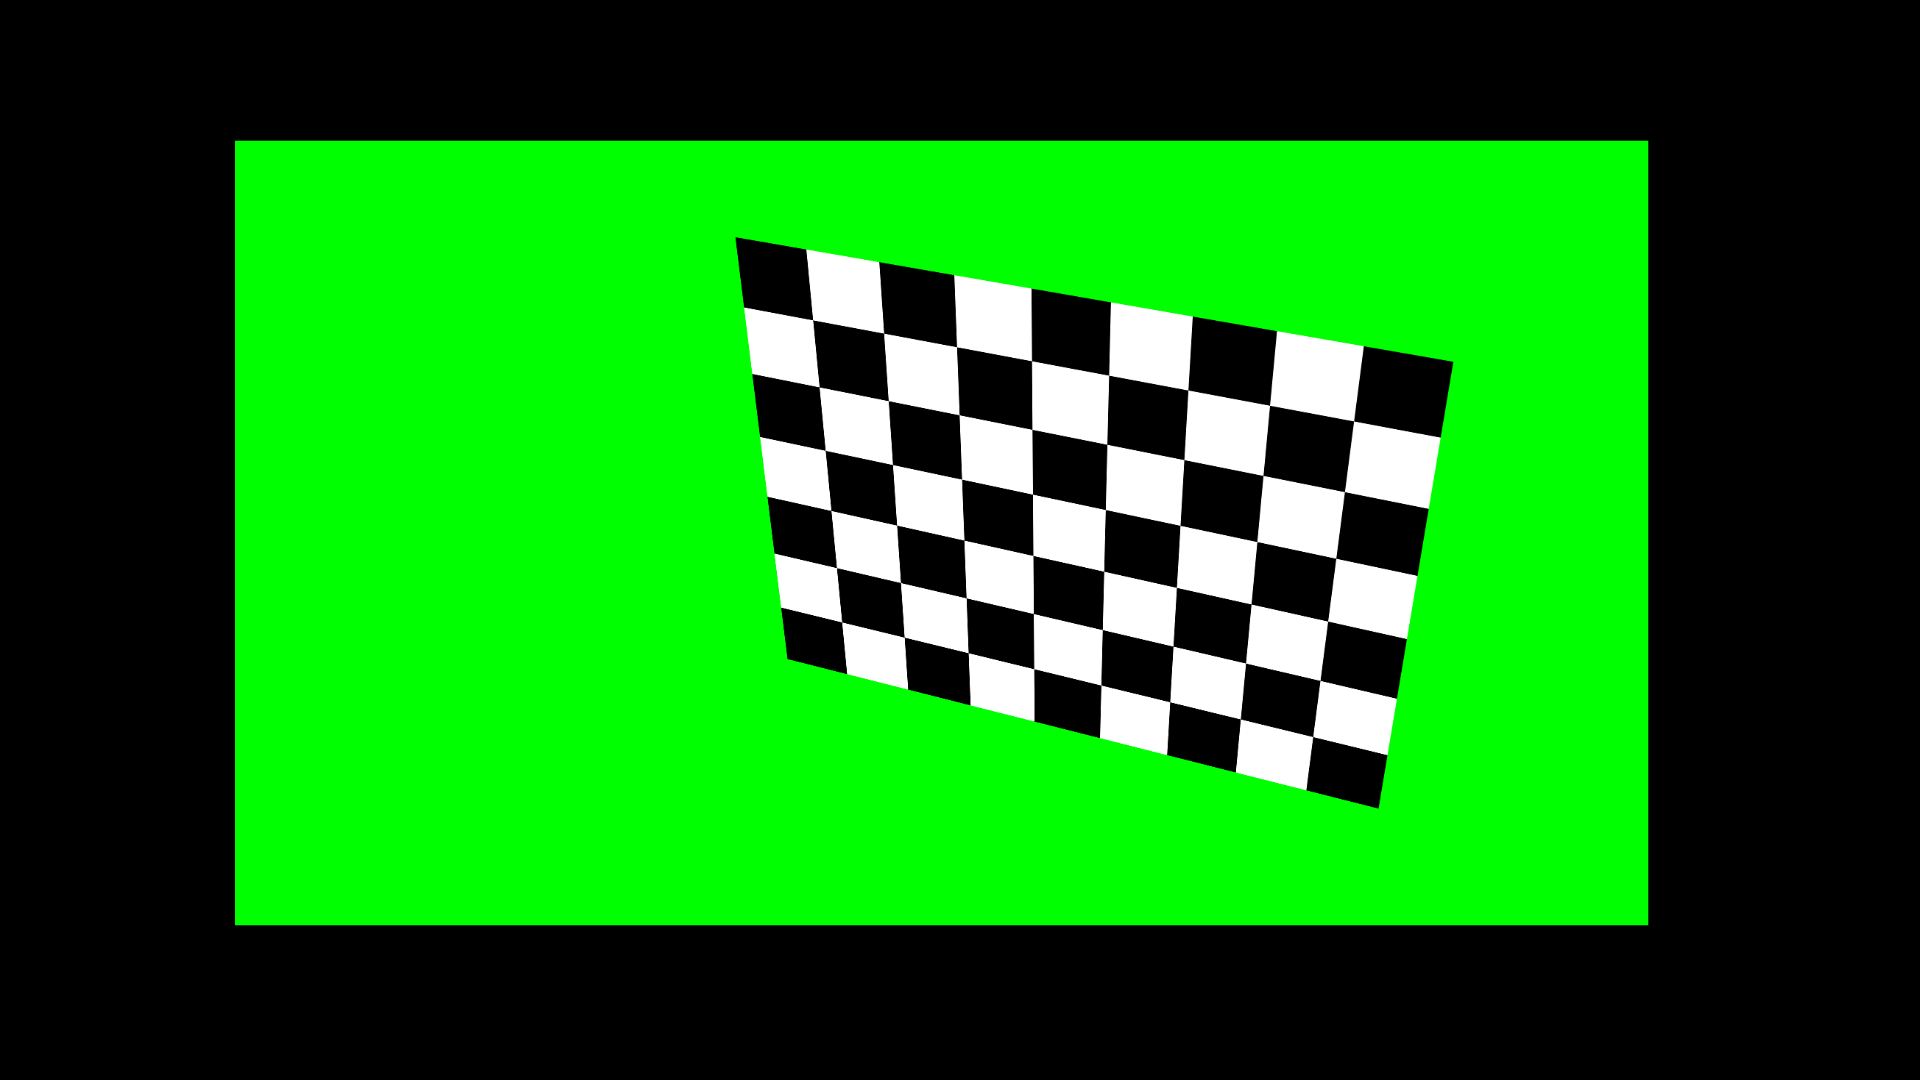
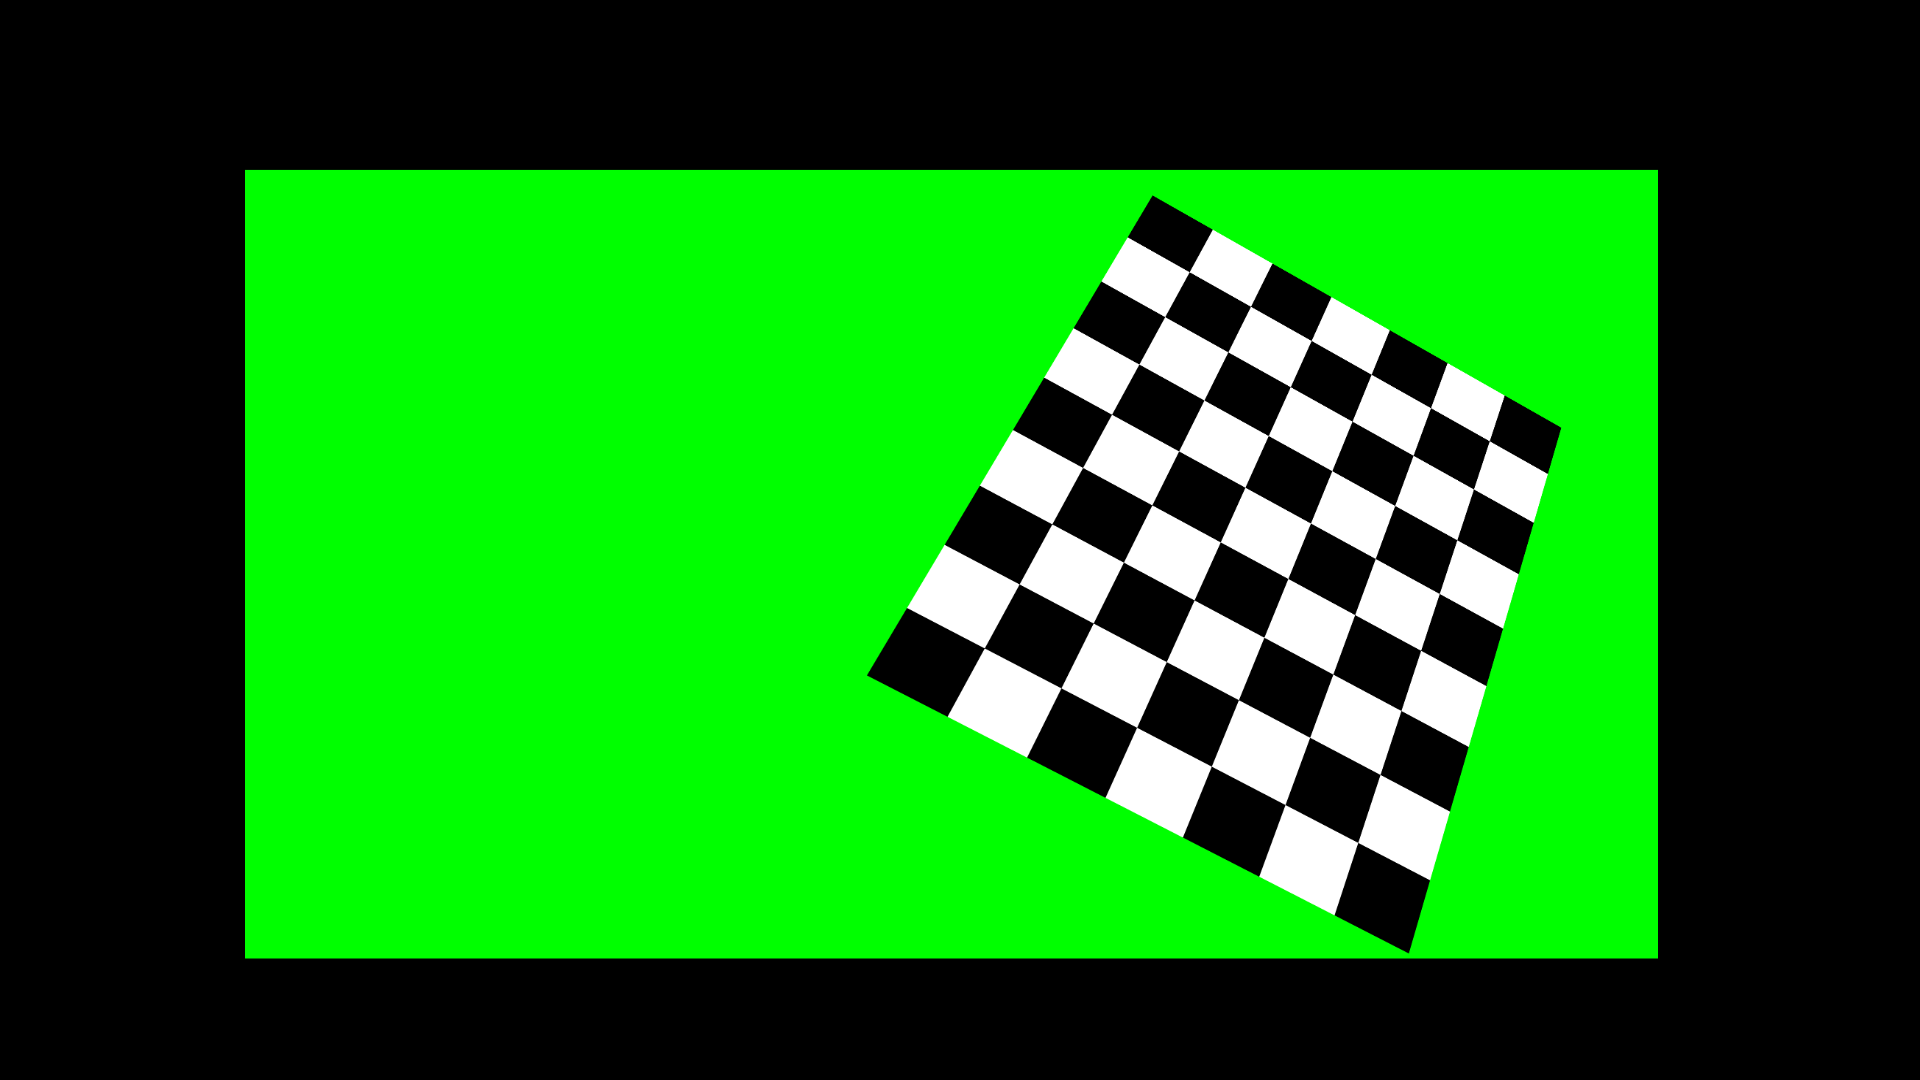
Improve nodal offset accuracy

Changed region(s): [[0.125, 0.1222, 0.875, 0.8861]]

diff --git a/vcam.py b/vcam.py
@@ -1,5 +1,5 @@
 from math import sqrt
-from utils import translation_matrix_3d
+from utils import translation_matrix_3d, proj_matrix_3d
 import cv2
 import numpy as np
 import os
@@ -11,7 +11,9 @@ class VirtualCamera:
     def __init__(self, monitor, matrix, camera_dist):
         self.width = monitor.width
         self.height = monitor.height
-        self.matrix = matrix
+
+        self.matrix = np.zeros((3, 4))
+        self.matrix[:3, :3] = matrix
         
         if os.path.isfile('tracker_positions.txt'):
             self.log('using tracker positions to measure distance')
@@ -36,58 +38,25 @@ class VirtualCamera:
             self.dz = matrix[0][0]
 
         self.nodal_offset = None
-        
-        # Calculate 3D points of the image plane
-        x = np.linspace(-self.width/2, self.width/2, self.width)
-        y = np.linspace(-self.height/2, self.height/2, self.height)
-        xv, yv = np.meshgrid(x, y)
-
-        X = xv.reshape(-1, 1)
-        Y = yv.reshape(-1, 1)
-        Z = X * 0
-        W = X * 0 + 1
-
-        self.plane = np.concatenate(([X], [Y], [Z], [W]))[:, :, 0]    
 
 
     def log(self, message):
         print('[Virtual Camera] ' + message)
 
 
-    def project(self):
-        points = translation_matrix_3d(0, 0, self.dz) @ self.plane
+    def capture(self, image):
+        h, w = image.shape[:2]
+
+        M = translation_matrix_3d(0, 0, self.dz)
 
         if self.nodal_offset is not None:
             R, T = self.nodal_offset
-            Rt = np.transpose(R)
 
             P = np.eye(4)
-            P[:3,:3] = Rt
-            P[:3, 3] = Rt @ -T.reshape(3)
+            P[:3,:3] = R
+            P[:3, 3] = T.reshape(3)
 
-            #P[:3,:3] = R
-            #P[:3, 3] = T.reshape(3)
-
-            points = P @ points
+            M = P @ M
         
-        X = points[0,:]
-        Y = points[1,:]
-        Z = points[2,:]
-
-        fx = self.matrix[0,0]
-        fy = self.matrix[1,1]
-        u0 = self.matrix[0,2]
-        v0 = self.matrix[1,2]
-
-        U = fx * (X / Z) + u0
-        V = fy * (Y / Z) + v0
-        return np.concatenate(([U], [V]))
-
-
-    def capture(self, image):
-        pts2d = self.project()
-        xs, ys = np.split(pts2d, 2)
-        map_x = xs.reshape(self.height, self.width).astype(np.float32)
-        map_y = ys.reshape(self.height, self.width).astype(np.float32)
-        
-        return cv2.remap(image, map_x, map_y, interpolation=cv2.INTER_LINEAR)
+        M = self.matrix @ M @ proj_matrix_3d(w, h)
+        return cv2.warpPerspective(image, M, (w, h))

diff --git a/calibrator.py b/calibrator.py
@@ -10,19 +10,9 @@ import numpy as np
 import os
 import subprocess
 
-MATPLOTLIB_INSTALLED = None
-
-#TODO matplotlib integration
-try:
-    import matplotlib.pyplot as plt
-    MATPLOTLIB_INSTALLED = True
-except ImportError:
-    MATPLOTLIB_INSTALLED = False
-
-
 SCRIPT_DIR = os.path.dirname(os.path.realpath(__file__))
 
-SQUARE_SIZE = 67.3 # After translating by 750 mm
+SQUARE_SIZE = 128
 BOARD_SIZE = (8, 6)
 
 CRITERIA = (cv2.TERM_CRITERIA_EPS + cv2.TERM_CRITERIA_MAX_ITER, 30, 0.001)
@@ -164,7 +154,9 @@ class NodalOffsetCalibrator(AbstractCalibrator):
     def __init__(self, monitor, mtx, distortion, cam_dist, num_captures):
         super().__init__(monitor, num_captures)
 
-        self.objpoints *= SQUARE_SIZE
+        square_size_mm = SQUARE_SIZE * monitor.width_mm / monitor.width
+        pixels_per_mm = mtx[0][0] / 750
+        self.objpoints *= square_size_mm * pixels_per_mm
         
         self.matrix = mtx
         self.distortion = distortion

diff --git a/vcam_test.py b/vcam_test.py
@@ -10,7 +10,6 @@ print('Distance in pixels: ', dist_mm * monitor.width / monitor.width_mm)
 
 mtx = np.loadtxt('output/camera_matrix.txt')
 vcam = VirtualCamera(monitor, mtx, dist_mm)
-vcam.dz = 2.069155660396600069e+03
 
 objpts = np.zeros((BOARD_SIZE[0] * BOARD_SIZE[1], 3), np.float32)
 objpts[:,:2] = np.mgrid[0:BOARD_SIZE[0], 0:BOARD_SIZE[1]].T.reshape(-1,2) * SQUARE_SIZE
